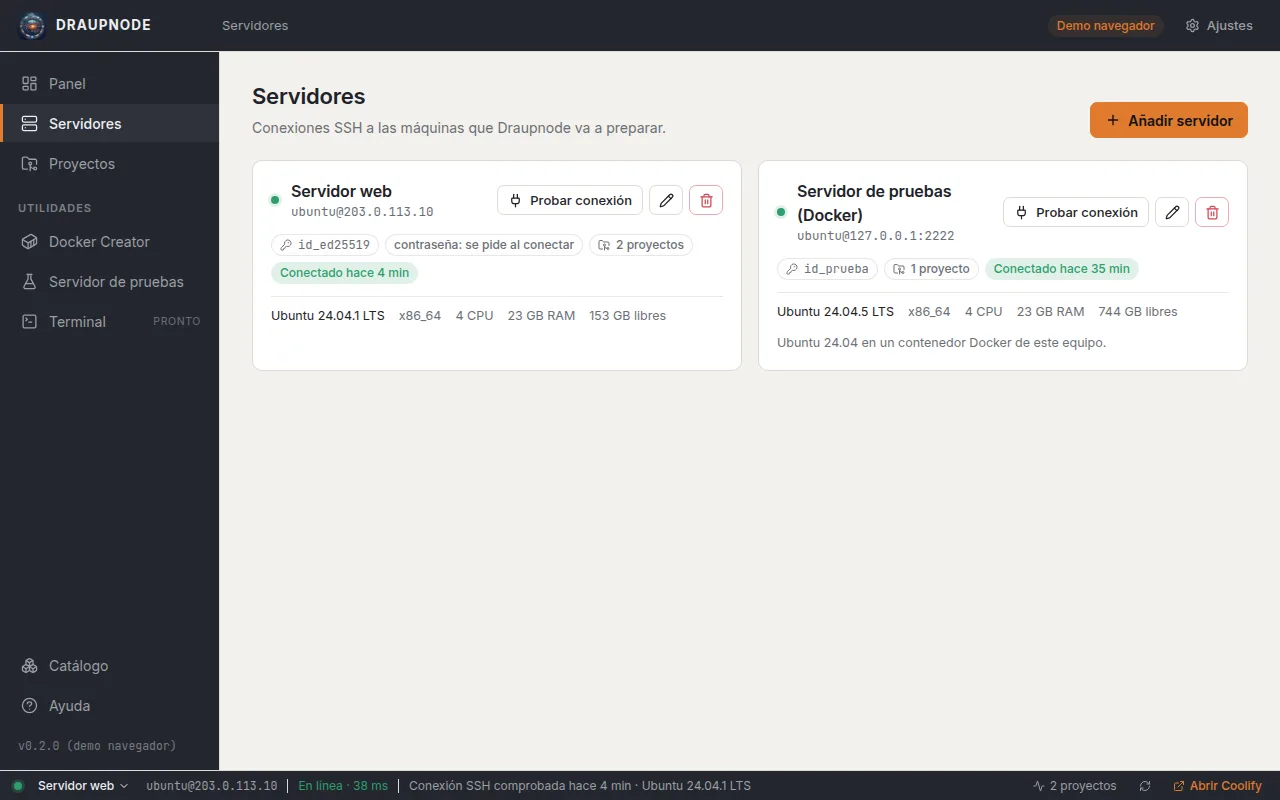
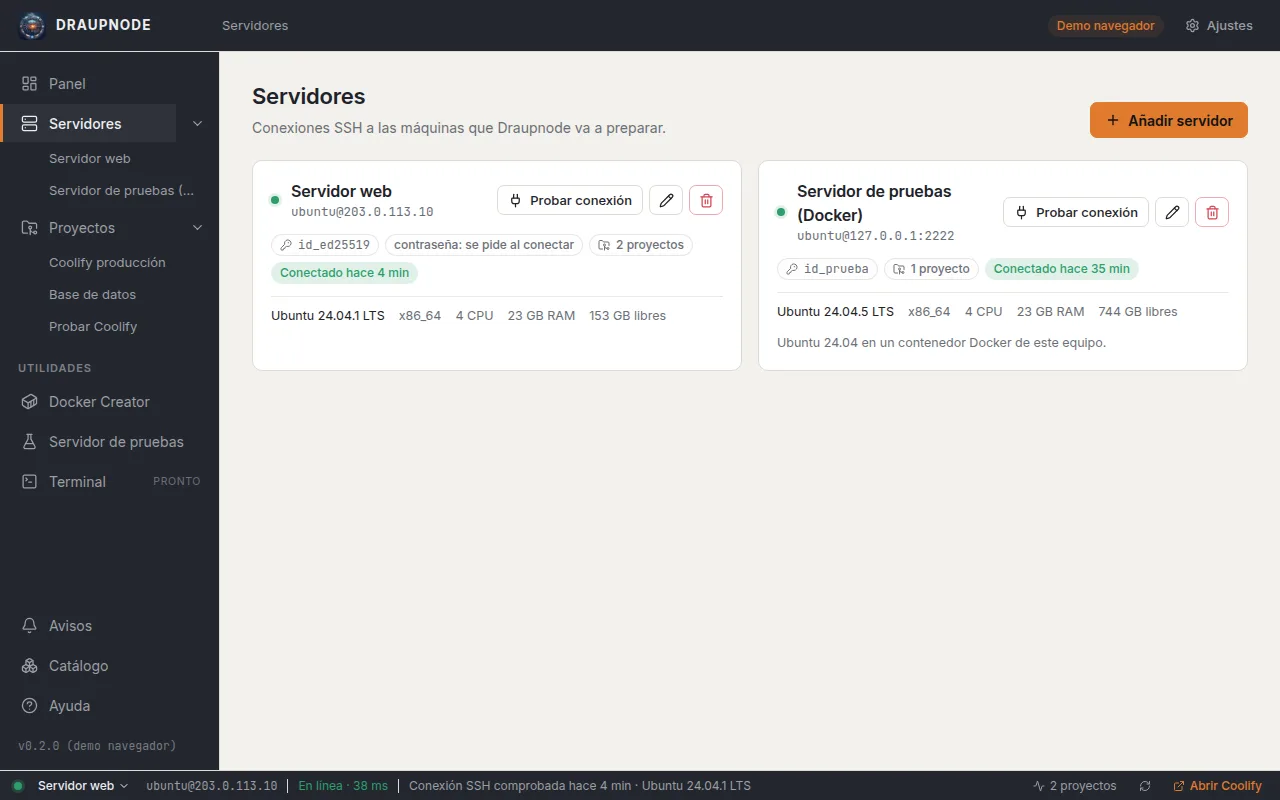
Pantalla de avisos con contador y campana, y servidores y proyectos desplegables en el menú (0.37.0)

diff --git a/frontend/src/App.svelte b/frontend/src/App.svelte
@@ -1,6 +1,6 @@
 <script lang="ts">
   import { onMount } from 'svelte'
-  import { LayoutDashboard, Server, Boxes, FolderGit2, Container, SquareTerminal, Settings, CircleCheck, FlaskConical, CircleAlert, CircleHelp, Menu, X } from '@lucide/svelte'
+  import { LayoutDashboard, Server, Boxes, FolderGit2, Container, SquareTerminal, Settings, CircleCheck, FlaskConical, CircleAlert, CircleHelp, Menu, X, Bell, ChevronRight } from '@lucide/svelte'
   import Logo from './components/Logo.svelte'
   import Dashboard from './views/Dashboard.svelte'
   import Servers from './views/Servers.svelte'
@@ -16,11 +16,31 @@
   import Dockerize from './views/Dockerize.svelte'
   import StatusBar from './components/StatusBar.svelte'
   import HelpDialog from './components/HelpDialog.svelte'
-  import BackupsDueBanner from './components/BackupsDueBanner.svelte'
-  import { ui, boot, toast, type View } from './lib/state.svelte'
+  import Alerts from './views/Alerts.svelte'
+  import { alertItems, loadAlerts } from './lib/alerts.svelte'
+  import { ui, boot, toast, openServer, openRecipe, type View } from './lib/state.svelte'
   import { errorText, isDesktop } from './lib/api'
 
   type NavItem = { id: View; label: string; icon: typeof Server; soon?: boolean }
+  // Servidores y Proyectos se despliegan en el menú para entrar directo a cada uno.
+  // Lo desplegado se recuerda en este equipo.
+  let expanded = $state<Record<string, boolean>>(loadExpanded())
+  function loadExpanded(): Record<string, boolean> {
+    try {
+      return JSON.parse(localStorage.getItem('dn-menu') ?? '') ?? {}
+    } catch {
+      return { servers: true, projects: true }
+    }
+  }
+  function toggle(id: string) {
+    expanded[id] = !isOpen(id)
+    try { localStorage.setItem('dn-menu', JSON.stringify(expanded)) } catch { /* sin almacenamiento */ }
+  }
+  const isOpen = (id: string) => expanded[id] ?? true
+  const children = (id: View) =>
+    id === 'servers' ? ui.servers.map((s) => ({ id: s.id, label: s.name, active: ui.view === 'servers' && ui.serverId === s.id, open: () => { openServer(s.id); menuOpen = false } }))
+    : id === 'projects' ? ui.recipes.map((r) => ({ id: r.id, label: r.name, active: ui.view === 'projects' && ui.recipeId === r.id, open: () => { openRecipe(r.id); menuOpen = false } }))
+    : []
   // Lo principal arriba; las herramientas en «Utilidades»; el Catálogo
   // (lo que se puede instalar) abajo, junto a la Ayuda.
   const nav: NavItem[] = [
@@ -36,7 +56,7 @@
 
   const titles: Record<View, string> = {
     dashboard: 'Panel', servers: 'Servidores', catalog: 'Catálogo', projects: 'Proyectos',
-    docker: 'Docker Creator', terminal: 'Terminal', settings: 'Ajustes', lab: 'Servidor de pruebas',
+    docker: 'Docker Creator', terminal: 'Terminal', settings: 'Ajustes', lab: 'Servidor de pruebas', alerts: 'Avisos',
   }
 
   let ready = $state(false)
@@ -59,7 +79,9 @@
       toast('No se pudo cargar la configuración: ' + errorText(e), 'error')
     }
     ready = true
+    loadAlerts()
   })
+  const alertCount = $derived(alertItems().length)
 </script>
 
 <div class="shell">
@@ -74,6 +96,11 @@
     <div class="crumb">{titles[ui.view]}</div>
     <div class="top-right">
       {#if !isDesktop}<span class="badge accent" title="Abierto en el navegador: datos simulados">Demo navegador</span>{/if}
+      {#if alertCount && ui.view !== 'alerts'}
+        <button class="btn ghost sm bell" onclick={() => go('alerts')} title="{alertCount} aviso{alertCount > 1 ? 's' : ''}">
+          <Bell size={15} /> <span class="count">{alertCount}</span>
+        </button>
+      {/if}
       <button class="btn ghost sm" class:active={ui.view === 'settings'} onclick={() => go('settings')} title="Ajustes">
         <Settings size={15} /> <span class="lbl">Ajustes</span>
       </button>
@@ -84,10 +111,22 @@
   <aside class="sidebar" class:open={menuOpen}>
     <nav>
       {#each nav as item}
-        <button class="nav-item" class:active={ui.view === item.id} onclick={() => go(item.id)}>
-          <item.icon size={17} strokeWidth={1.8} />
-          <span>{item.label}</span>
-        </button>
+        {@const kids = children(item.id)}
+        <div class="nav-row">
+          <button class="nav-item" class:active={ui.view === item.id && !kids.some((k) => k.active)} onclick={() => go(item.id)}>
+            <item.icon size={17} strokeWidth={1.8} />
+            <span>{item.label}</span>
+          </button>
+          {#if kids.length}
+            <button class="nav-fold" class:open={isOpen(item.id)} onclick={() => toggle(item.id)}
+              aria-expanded={isOpen(item.id)} title={isOpen(item.id) ? 'Plegar' : 'Desplegar'}><ChevronRight size={15} /></button>
+          {/if}
+        </div>
+        {#if kids.length && isOpen(item.id)}
+          {#each kids as k (k.id)}
+            <button class="nav-item sub" class:active={k.active} onclick={k.open} title={k.label}><span>{k.label}</span></button>
+          {/each}
+        {/if}
       {/each}
       <div class="nav-group">Utilidades</div>
       {#each tools as item}
@@ -99,6 +138,11 @@
       {/each}
     </nav>
     <div class="side-foot">
+      <button class="nav-item help-btn" class:active={ui.view === 'alerts'} onclick={() => go('alerts')} title="Copias pendientes, fallos…">
+        <Bell size={17} strokeWidth={1.8} />
+        <span>Avisos</span>
+        {#if alertCount}<span class="count">{alertCount}</span>{/if}
+      </button>
       <button class="nav-item help-btn" class:active={ui.view === 'catalog'} onclick={() => go('catalog')} title="Los módulos que se pueden instalar">
         <Boxes size={17} strokeWidth={1.8} />
         <span>Catálogo</span>
@@ -113,7 +157,6 @@
 
   <main class="content">
     {#if ready}
-      <BackupsDueBanner />
       {#if ui.view === 'dashboard'}<Dashboard />
       {:else if ui.view === 'servers'}<Servers />
       {:else if ui.view === 'catalog'}<Catalog />
@@ -121,6 +164,7 @@
       {:else if ui.view === 'lab'}<Lab />
       {:else if ui.view === 'docker'}<Dockerize />
       {:else if ui.view === 'settings'}<SettingsView />
+      {:else if ui.view === 'alerts'}<Alerts />
       {:else}<Upcoming view={ui.view} />
       {/if}
     {/if}
@@ -184,7 +228,9 @@
     padding: 12px 0;
     overflow-y: auto;
   }
-  nav { display: flex; flex-direction: column; gap: 2px; }
+  .count { margin-left: auto; min-width: 18px; height: 18px; padding: 0 5px; border-radius: 9px; background: var(--warning); color: #1a1a1a; font-size: 11px; font-weight: 700; display: inline-flex; align-items: center; justify-content: center; }
+  .bell .count { margin-left: 2px; }
+  nav { display: flex; flex-direction: column; gap: 2px; overflow-y: auto; min-height: 0; flex: 1; }
   .nav-item {
     display: flex; align-items: center; gap: 11px;
     height: 38px; padding: 0 18px; margin: 0;
@@ -196,6 +242,14 @@
   .nav-item.active { border-left-color: var(--accent); background: var(--sidebar-hover); color: var(--sidebar-text); font-weight: 500; }
   .nav-item em { margin-left: auto; font-style: normal; font-size: 10.5px; text-transform: uppercase; letter-spacing: .06em; opacity: .6; }
 
+  .nav-row { display: flex; align-items: stretch; }
+  .nav-row .nav-item { flex: 1; }
+  .nav-fold { background: none; border: 0; color: var(--sidebar-muted); cursor: pointer; padding: 0 14px; display: flex; align-items: center; }
+  .nav-fold:hover { color: var(--sidebar-text); background: var(--sidebar-hover); }
+  .nav-fold :global(svg) { transition: transform .12s; }
+  .nav-fold.open :global(svg) { transform: rotate(90deg); }
+  .nav-item.sub { height: 30px; padding-left: 46px; font-size: 13px; }
+  .nav-item.sub span { overflow: hidden; text-overflow: ellipsis; white-space: nowrap; }
   .help-btn { margin: 0 -18px; }
   .nav-group { margin: 16px 18px 4px; font-size: 11px; text-transform: uppercase; letter-spacing: .08em; color: var(--sidebar-muted); opacity: .75; font-weight: 600; }
   .side-foot { padding: 14px 18px 4px; display: flex; flex-direction: column; gap: 2px; }

diff --git a/frontend/src/lib/alerts.svelte.ts b/frontend/src/lib/alerts.svelte.ts
@@ -1,0 +1,82 @@
+// Avisos de la app: lo que conviene mirar, en un solo sitio (pantalla
+// «Avisos», el número en el menú y la campana de arriba). Así no hace falta
+// una franja en todas las pantallas: solo el Panel los enseña.
+import { api, onEvent, type BackupDue, type BackupFetchProgress, type BackupResult } from './api'
+import { ui, toast, refreshProjects } from './state.svelte'
+import { withConnection } from './connect'
+
+export type AlertItem =
+  | { kind: 'backups'; key: string; projectId: string; name: string; server: string; due: BackupDue }
+  | { kind: 'failed'; key: string; projectId: string; name: string; server: string; at: string; error: string }
+
+export const alerts = $state({
+  due: [] as BackupDue[],
+  // Ocultos hasta que se vuelva a abrir la app.
+  hidden: [] as string[],
+  busy: '',
+  progress: null as BackupFetchProgress | null,
+})
+
+onEvent('backupfetch', (p: BackupFetchProgress) => {
+  if (p.projectId === alerts.busy) alerts.progress = p
+})
+
+const serverName = (projectId: string) => {
+  const p = ui.projects.find((x) => x.id === projectId)
+  return ui.servers.find((s) => s.id === p?.serverId)?.name ?? ''
+}
+
+export function alertItems(): AlertItem[] {
+  const out: AlertItem[] = []
+  for (const d of alerts.due) {
+    out.push({ kind: 'backups', key: 'b:' + d.projectId, projectId: d.projectId, name: d.name, server: serverName(d.projectId), due: d })
+  }
+  for (const p of ui.projects) {
+    const r = p.lastRun
+    if (r && !r.ok && !r.check && !r.canceled) {
+      out.push({ kind: 'failed', key: 'f:' + p.id + ':' + r.at, projectId: p.id, name: p.name, server: serverName(p.id), at: r.at, error: r.error ?? '' })
+    }
+  }
+  return out.filter((a) => !alerts.hidden.includes(a.key))
+}
+
+export function hideAlert(key: string) {
+  alerts.hidden.push(key)
+}
+
+export async function fetchBackups(d: BackupDue, quiet = false): Promise<boolean> {
+  alerts.busy = d.projectId
+  alerts.progress = null
+  try {
+    const srv = ui.servers.find((s) => s.id === ui.projects.find((p) => p.id === d.projectId)?.serverId)
+    const call = (s: string, a: string, u: string) => api.FetchBackups(d.projectId, d.dest, s, a, u)
+    // Solas: sin preguntar nada (si hace falta una contraseña, se queda en aviso).
+    const r: BackupResult | null = quiet ? await call('', '', '') : await withConnection(srv, call)
+    if (r?.status === 'ok' && r.fetch) {
+      alerts.due = alerts.due.filter((x) => x.projectId !== d.projectId)
+      toast(`Copias de «${d.name}» traídas a ${r.fetch.dir}`)
+      return true
+    }
+    if (!quiet && r && r.status !== 'ok') toast(r.message || 'No se pudieron traer', 'error')
+    return false
+  } catch (e) {
+    if (!quiet) toast(String(e), 'error')
+    return false
+  } finally {
+    alerts.busy = ''
+    alerts.progress = null
+  }
+}
+
+// Al abrir la app: mira las copias pendientes y trae solas las que lo tienen así.
+export async function loadAlerts() {
+  try {
+    alerts.due = await api.BackupsDue()
+  } catch {
+    return
+  }
+  for (const d of alerts.due.filter((x) => x.mode === 'fetch')) {
+    if (!(await fetchBackups(d, true))) d.mode = 'warn' // no se pudo sin preguntar: queda como aviso
+  }
+  await refreshProjects()
+}

diff --git a/frontend/src/components/AlertsList.svelte b/frontend/src/components/AlertsList.svelte
@@ -1,0 +1,52 @@
+<script lang="ts">
+  // La lista de avisos (pantalla «Avisos» y, si hay, arriba del Panel).
+  import { DatabaseBackup, Download, LoaderCircle, X, CircleX, ArrowRight } from '@lucide/svelte'
+  import { alerts, alertItems, hideAlert, fetchBackups } from '../lib/alerts.svelte'
+  import { openDeployment, timeAgo } from '../lib/state.svelte'
+
+  let { compact = false }: { compact?: boolean } = $props()
+  const items = $derived(alertItems())
+  const size = (n: number) => (n > 1e9 ? (n / 1e9).toFixed(1) + ' GB' : (n / 1e6).toFixed(0) + ' MB')
+</script>
+
+<div class="alerts" class:compact>
+  {#each items as a (a.key)}
+    <div class="card alert" class:bad={a.kind === 'failed'}>
+      {#if a.kind === 'backups'}<DatabaseBackup size={17} />{:else}<CircleX size={17} />{/if}
+      <div class="txt">
+        {#if a.kind === 'backups'}
+          {#if alerts.busy === a.projectId}
+            <span><LoaderCircle size={13} class="spin" /> Trayendo las copias de <strong>{a.name}</strong>…{#if alerts.progress?.total} {size(alerts.progress.done)} de {size(alerts.progress.total)}{/if}</span>
+          {:else}
+            <span>Copias de <strong>{a.name}</strong>{#if a.server}{' '}({a.server}){/if}: {a.due.age < 0 ? 'nunca las has traído a este equipo' : `las de este equipo son de hace ${a.due.age} días`}.</span>
+            {#if !compact}<span class="muted small">Puedes hacer que se traigan solas, o cambiar cada cuántos días avisa, en el proyecto → Copias.</span>{/if}
+          {/if}
+        {:else}
+          <span>La última aplicación de <strong>{a.name}</strong>{#if a.server}{' '}en {a.server}{/if} falló ({timeAgo(a.at)}).</span>
+          {#if !compact && a.error}<span class="muted small">{a.error}</span>{/if}
+        {/if}
+      </div>
+      <div class="btns">
+        {#if a.kind === 'backups'}
+          <button class="btn sm" onclick={() => fetchBackups(a.due)} disabled={!!alerts.busy}><Download size={13} /> Traer ahora</button>
+        {/if}
+        <button class="btn sm ghost" onclick={() => openDeployment(a.projectId)}>Abrir <ArrowRight size={13} /></button>
+        <button class="btn sm ghost icon" title="Ocultar hasta la próxima vez que abras la app" onclick={() => hideAlert(a.key)}><X size={14} /></button>
+      </div>
+    </div>
+  {:else}
+    {#if !compact}<p class="muted">No hay avisos. Todo en orden.</p>{/if}
+  {/each}
+</div>
+
+<style>
+  .alerts { display: flex; flex-direction: column; gap: 8px; }
+  .alerts.compact { margin-bottom: 16px; }
+  .alert { display: flex; gap: 12px; align-items: center; padding: 10px 14px; font-size: 13px; border-color: color-mix(in srgb, var(--warning) 45%, var(--border)); }
+  .alert.bad { border-color: color-mix(in srgb, var(--danger) 45%, var(--border)); }
+  .alert > :global(svg) { color: var(--warning); flex: none; }
+  .alert.bad > :global(svg) { color: var(--danger); }
+  .txt { display: flex; flex-direction: column; gap: 2px; flex: 1; min-width: 0; }
+  .btns { display: flex; gap: 6px; flex-wrap: wrap; }
+  @media (max-width: 640px) { .alert { flex-wrap: wrap; } }
+</style>

diff --git a/frontend/src/lib/help.ts b/frontend/src/lib/help.ts
@@ -130,6 +130,16 @@ export const HELP: HelpSection[] = [
     ],
   },
   {
+    id: 'alerts',
+    title: 'Avisos',
+    intro: 'Todo lo que conviene mirar, en un sitio. El número sale en el menú y en la campana de arriba; el Panel también los enseña. Las demás pantallas no se llenan de franjas.',
+    steps: [
+      { title: 'Copias sin traer', img: 'avisos', text: 'Un proyecto con Copias cuyas copias hace tiempo (o nunca) que no traes a este equipo. «Traer ahora» las descarga. En el proyecto → Copias eliges cada cuántos días avisa, que se traigan solas al abrir la app o que no avise.' },
+      { title: 'Aplicaciones que fallaron', text: 'La última vez que pulsaste «Aplicar» en ese proyecto hubo un error. «Abrir» lleva al proyecto para ver qué pasó; desaparece cuando vuelve a aplicarse bien.' },
+      { title: 'Ocultar', text: 'La ✕ lo quita hasta la próxima vez que abras la app.' },
+    ],
+  },
+  {
     id: 'settings',
     title: 'Ajustes',
     intro: 'Dónde se guardan las contraseñas, el tema de colores y los datos de la aplicación.',

diff --git a/frontend/src/lib/state.svelte.ts b/frontend/src/lib/state.svelte.ts
@@ -2,7 +2,7 @@
 import { api, onEvent, vaultCode, type RecipeView, type AppInfo, type ModulesInfo, type Project, type RunEvent, type RunSummary, type SecretsInfo, type Server } from './api'
 import { applyPalette, BUILTIN_PALETTES, DEFAULT_PALETTE_ID, isHex, COLOR_KEYS, type Palette } from './palettes'
 
-export type View = 'dashboard' | 'servers' | 'catalog' | 'projects' | 'lab' | 'docker' | 'terminal' | 'settings'
+export type View = 'dashboard' | 'servers' | 'catalog' | 'projects' | 'lab' | 'docker' | 'terminal' | 'settings' | 'alerts'
 
 export function moduleName(id: string): string {
   return ui.modules?.modules.find((m) => m.id === id)?.name ?? id

diff --git a/frontend/src/views/Dashboard.svelte b/frontend/src/views/Dashboard.svelte
@@ -1,5 +1,6 @@
 <script lang="ts">
   import { Plus, ArrowRight, CircleCheck, Circle, ChevronRight } from '@lucide/svelte'
+  import AlertsList from '../components/AlertsList.svelte'
   import { ui, timeAgo, kbToGB, openServerProjects } from '../lib/state.svelte'
 
   const total = $derived(ui.servers.length)
@@ -27,6 +28,8 @@
   </div>
   <button class="btn primary" onclick={() => (ui.view = 'servers')}><Plus size={16} /> Añadir servidor</button>
 </div>
+
+<AlertsList compact />
 
 <div class="tiles">
   <div class="card tile"><strong>{String(total).padStart(2, '0')}</strong><span>Servidores</span></div>

diff --git a/frontend/src/views/Alerts.svelte b/frontend/src/views/Alerts.svelte
@@ -1,0 +1,14 @@
+<script lang="ts">
+  import AlertsList from '../components/AlertsList.svelte'
+</script>
+
+<div class="head">
+  <h1>Avisos</h1>
+  <p class="muted">Lo que conviene mirar: copias que hace tiempo que no traes a este equipo y aplicaciones que fallaron.</p>
+</div>
+<AlertsList />
+
+<style>
+  .head { margin-bottom: 18px; }
+  .head h1 { margin: 0 0 4px; }
+</style>

diff --git a/app.go b/app.go
@@ -21,7 +21,7 @@ import (
 )
 
 // Version de la aplicación.
-const Version = "0.36.2"
+const Version = "0.37.0"
 
 // Prefijos que la interfaz reconoce en los errores para abrir el diálogo
 // de la bóveda (crear o desbloquear) y reintentar.

diff --git a/docs/HISTORIAL.md b/docs/HISTORIAL.md
@@ -472,3 +472,15 @@ Pasos 2, 3 y 4 del rediseño pedido (PLAN.md): «los proyectos son las recetas y
 - Ficha del servidor: los puertos que publica Docker (docker-proxy) no pasan por la cadena INPUT, así que se llega
   a ellos aunque el cortafuegos no los liste. Ya no se avisa de que «el cortafuegos no los deja pasar»: se avisa
   de que Docker se lo salta.
+
+## 2026-11-21 · 0.37.0 · Avisos en su sitio y menú con servidores y proyectos
+
+- **Avisos**: nueva entrada en el menú, encima de Catálogo, con el número de avisos. Junta las copias que hace
+  tiempo (o nunca) que no se traen a este equipo y los proyectos cuya última aplicación falló, con «Traer ahora»,
+  «Abrir» y ocultar hasta la próxima vez que se abra la app.
+  - La franja «Copias de … nunca las has traído» ya no sale en todas las pantallas: solo en el Panel. En las demás,
+    una campana arriba con el número lleva a «Avisos».
+  - El estado de los avisos es compartido (`lib/alerts.svelte.ts`); se quita `BackupsDueBanner`.
+- **Menú desplegable**: «Servidores» y «Proyectos» tienen una flecha que despliega la lista de servidores y de
+  recetas para entrar directo en cada uno. Lo desplegado se recuerda en este equipo; el menú hace scroll si hay muchos.
+- Capturas de la demo: `avisos` y `avisos-campana`.
